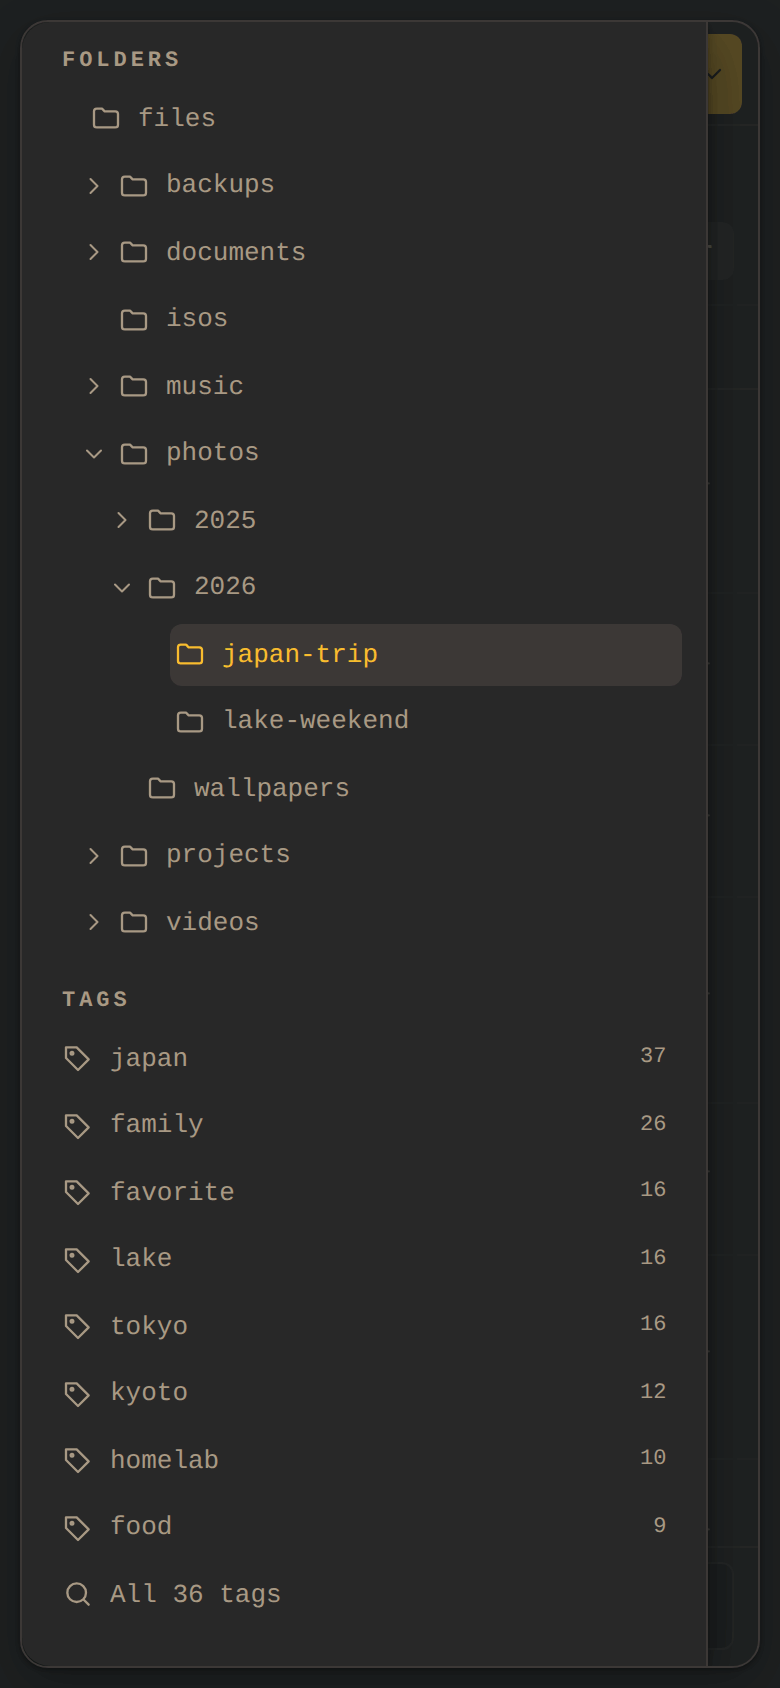
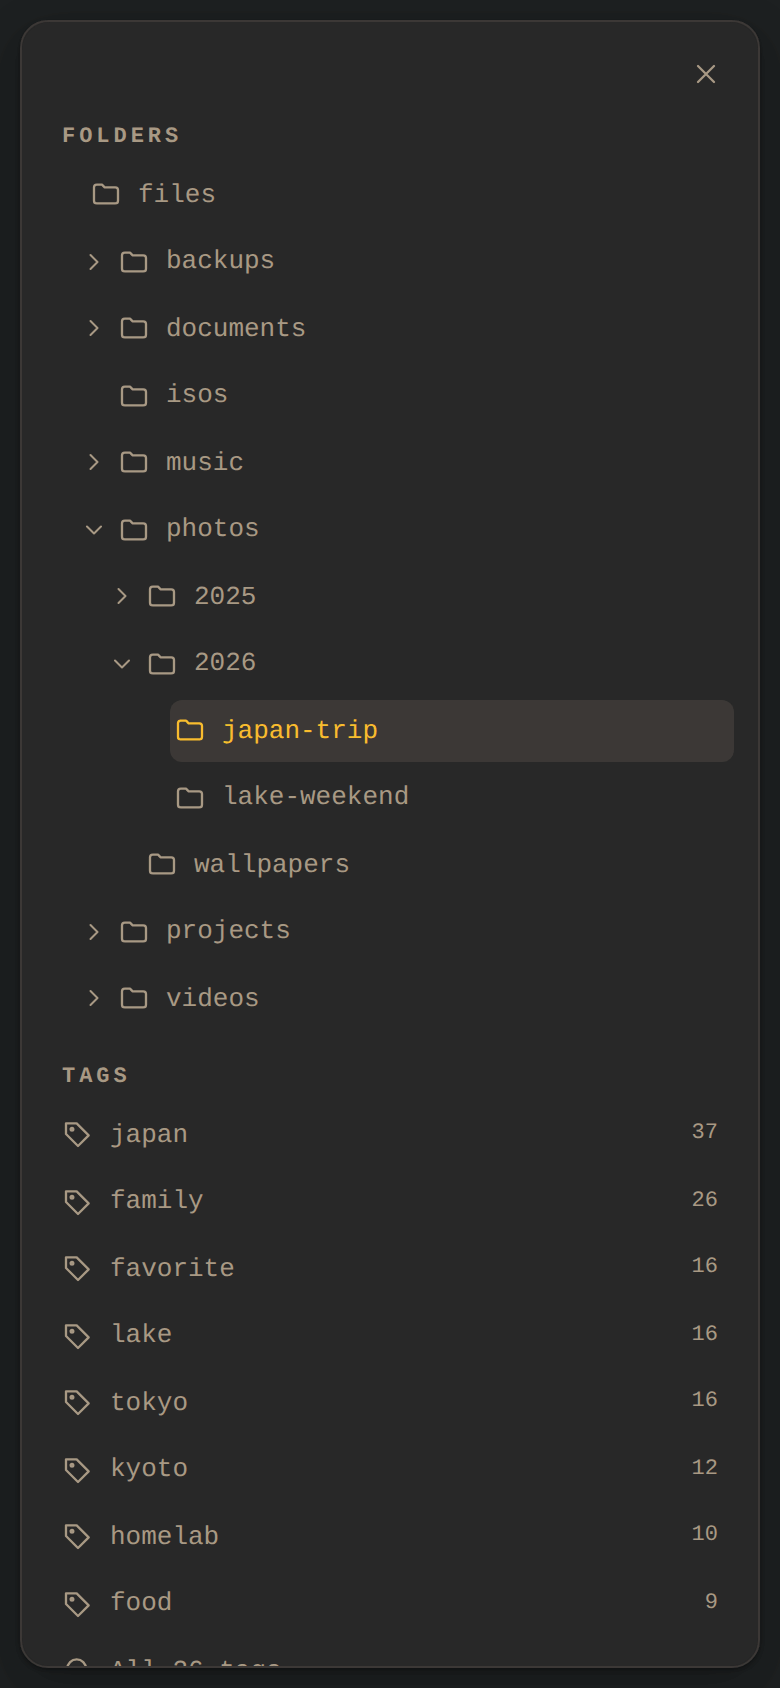
Make the phone sidebar cover the window, with an X to close it
The phone drawer left a sliver of the page showing on the right, which was the
only thing to tap to close it. It now covers the whole app and has an X in its
top corner, so the scrim, which had no other use, is gone.

Claude-Session: https://claude.ai/code/session_01Qe7URwaArr4JHzL1Xy3gCh

diff --git a/binny/static/css/style.css b/binny/static/css/style.css
@@ -176,7 +176,6 @@ svg.i { width: 16px; height: 16px; fill: none; stroke: currentColor; stroke-widt
 .suggest__note.warn, .suggest__note.warn b { color: var(--accent-warm); }
 .suggest .count, .chip small, .cc-tag small { color: var(--fg-muted); font-size: 11px; font-variant-numeric: tabular-nums; }
 mark { background: none; color: var(--accent-text); font-weight: 700; }
-.scrim { position: absolute; inset: 0; z-index: 30; background: var(--scrim); }
 
 /* ---------- sidebar: folder tree and disk usage ---------- */
 .side { width: 240px; overflow-y: auto; gap: var(--app-space-5); }
@@ -200,7 +199,7 @@ button.twisty:hover { background: var(--border); color: var(--fg); }
 .meter i { display: block; height: 100%; background: var(--accent-alt); }
 .meter--full i { background: var(--accent-warm); }
 .side-actions { display: none; }
-#sideBtn { display: none; } /* phones only: the sidebar is always there beside the list */
+#sideBtn, .side-close { display: none; } /* phones only: the sidebar is always there beside the list */
 
 /* ---------- main pane: path, summary, selection, file table ---------- */
 .subbar { display: flex; flex-wrap: wrap; align-items: center; gap: var(--app-space-4); padding: var(--app-space-4) var(--app-space-5); border-bottom: 1px solid var(--border-soft); }
@@ -387,9 +386,10 @@ input[type="checkbox"] { accent-color: var(--accent); width: 15px; height: 15px;
 @media (max-width: 760px) {
     :root { --dock: 60px; }
     body { padding: max(var(--shell-gap), env(safe-area-inset-top)) max(var(--shell-gap), env(safe-area-inset-right)) max(var(--shell-gap), env(safe-area-inset-bottom)) max(var(--shell-gap), env(safe-area-inset-left)); }
-    .side { display: none; position: absolute; top: 0; left: 0; bottom: 0; z-index: 35; width: min(88vw, 360px); background: var(--bg-surface); box-shadow: var(--shadow-lift); border-radius: var(--radius-lg) 0 0 var(--radius-lg); }
+    .side { display: none; position: absolute; inset: 0; z-index: 35; width: auto; border: 0; background: var(--bg-surface); border-radius: var(--radius-lg); } /* covers the whole app, and the X closes it */
     .side.open { display: flex; }
-    #sideBtn { display: inline-grid; }
+    #sideBtn, .side-close { display: inline-grid; }
+    .side-close { align-self: flex-end; flex: none; width: 44px; height: 44px; margin: calc(-1 * var(--app-space-2)) calc(-1 * var(--app-space-2)) calc(-1 * var(--app-space-4)); }
     .topbar { gap: var(--app-space-2); height: 52px; padding-inline: var(--app-space-1) var(--app-space-3); }
     .topbar .brand { margin-right: auto; }
     .topbar .icon-btn { width: 44px; height: 44px; }

diff --git a/binny/templates/index.html b/binny/templates/index.html
@@ -31,6 +31,7 @@
 
     <div class="body">
         <aside class="cc-shell__side side" id="side">
+            <button class="icon-btn side-close" id="sideClose" type="button" title="Close" aria-label="Close the sidebar"><svg class="i"><use href="#i-x"/></svg></button>
             <section>
                 <div class="cc-eyebrow">Folders</div>
                 <nav class="nav" id="tree" aria-label="Folders"></nav>
@@ -91,7 +92,6 @@
         </main>
     </div>
 
-    <div class="scrim" id="scrim" hidden></div>
     <div class="drop-hint" id="dropHint" hidden><svg class="i"><use href="#i-upload"/></svg><span id="dropHintText"></span></div>
 
     <section class="cc-settings-card uploads" id="uploads" hidden aria-live="polite">

diff --git a/binny/static/js/sidebar.js b/binny/static/js/sidebar.js
@@ -71,12 +71,11 @@ function toggleBranch(path, wasOpen) {
 
 function setDrawer(open) {
     $('side').classList.toggle('open', open);
-    $('scrim').hidden = !open;
 }
 
 export function initSidebar() {
     $('sideBtn').addEventListener('click', () => setDrawer(!$('side').classList.contains('open')));
-    $('scrim').addEventListener('click', () => setDrawer(false));
+    $('sideClose').addEventListener('click', () => setDrawer(false));
     // A link closes the drawer even when it leads where the page already is, which changes no hash.
     $('side').addEventListener('click', (event) => event.target.closest('a[href], [data-all-tags]') && setDrawer(false));
     $('tree').addEventListener('click', (event) => {

diff --git a/CLAUDE.md b/CLAUDE.md
@@ -15,8 +15,8 @@ still being made. Update them as they settle rather than working around them.
 - **Navigation has three parts, each with one job:** the sidebar folder tree for moving sideways
   (it opens only the branch you are in; other branches open by their arrow), the breadcrumb for
   the exact path and moving up, and the file list for moving down. The sidebar is always shown
-  beside the list; on phones it is a drawer (opened by the top bar's button), which also holds the
-  theme switch and sign-out, as the top bar has no room for them there. Also on phones, the search
+  beside the list; on phones it is a drawer (opened by the top bar's button, covering the whole window, closed by
+  its X), which also holds the theme switch and sign-out, as the top bar has no room for them there. Also on phones, the search
   box is a dock along the bottom (its suggestions open upward) so the top bar can keep the wordmark.
 - **Explorer:** nested folders; create, rename, move (drag-and-drop and a "move to" picker),
   upload (button and drag-and-drop, many files at once), download (single files; folders and

diff --git a/README.md b/README.md
@@ -71,9 +71,9 @@ upload from link still in progress, so let those finish first.
 
 ## On your phone
 
-Binny fits a phone: the folder tree and tags move into a drawer, along with the theme switch and
-sign-out, search moves to a bar along the bottom, within thumb's reach, and each file's size, date
-and tags sit under its name.
+Binny fits a phone: the folder tree and tags move into a drawer that covers the screen (an X closes
+it), along with the theme switch and sign-out, search moves to a bar along the bottom, within
+thumb's reach, and each file's size, date and tags sit under its name.
 
 <p align="center">
   <img src="assets/phone-folder.png" alt="A folder on a phone" width="30%">
